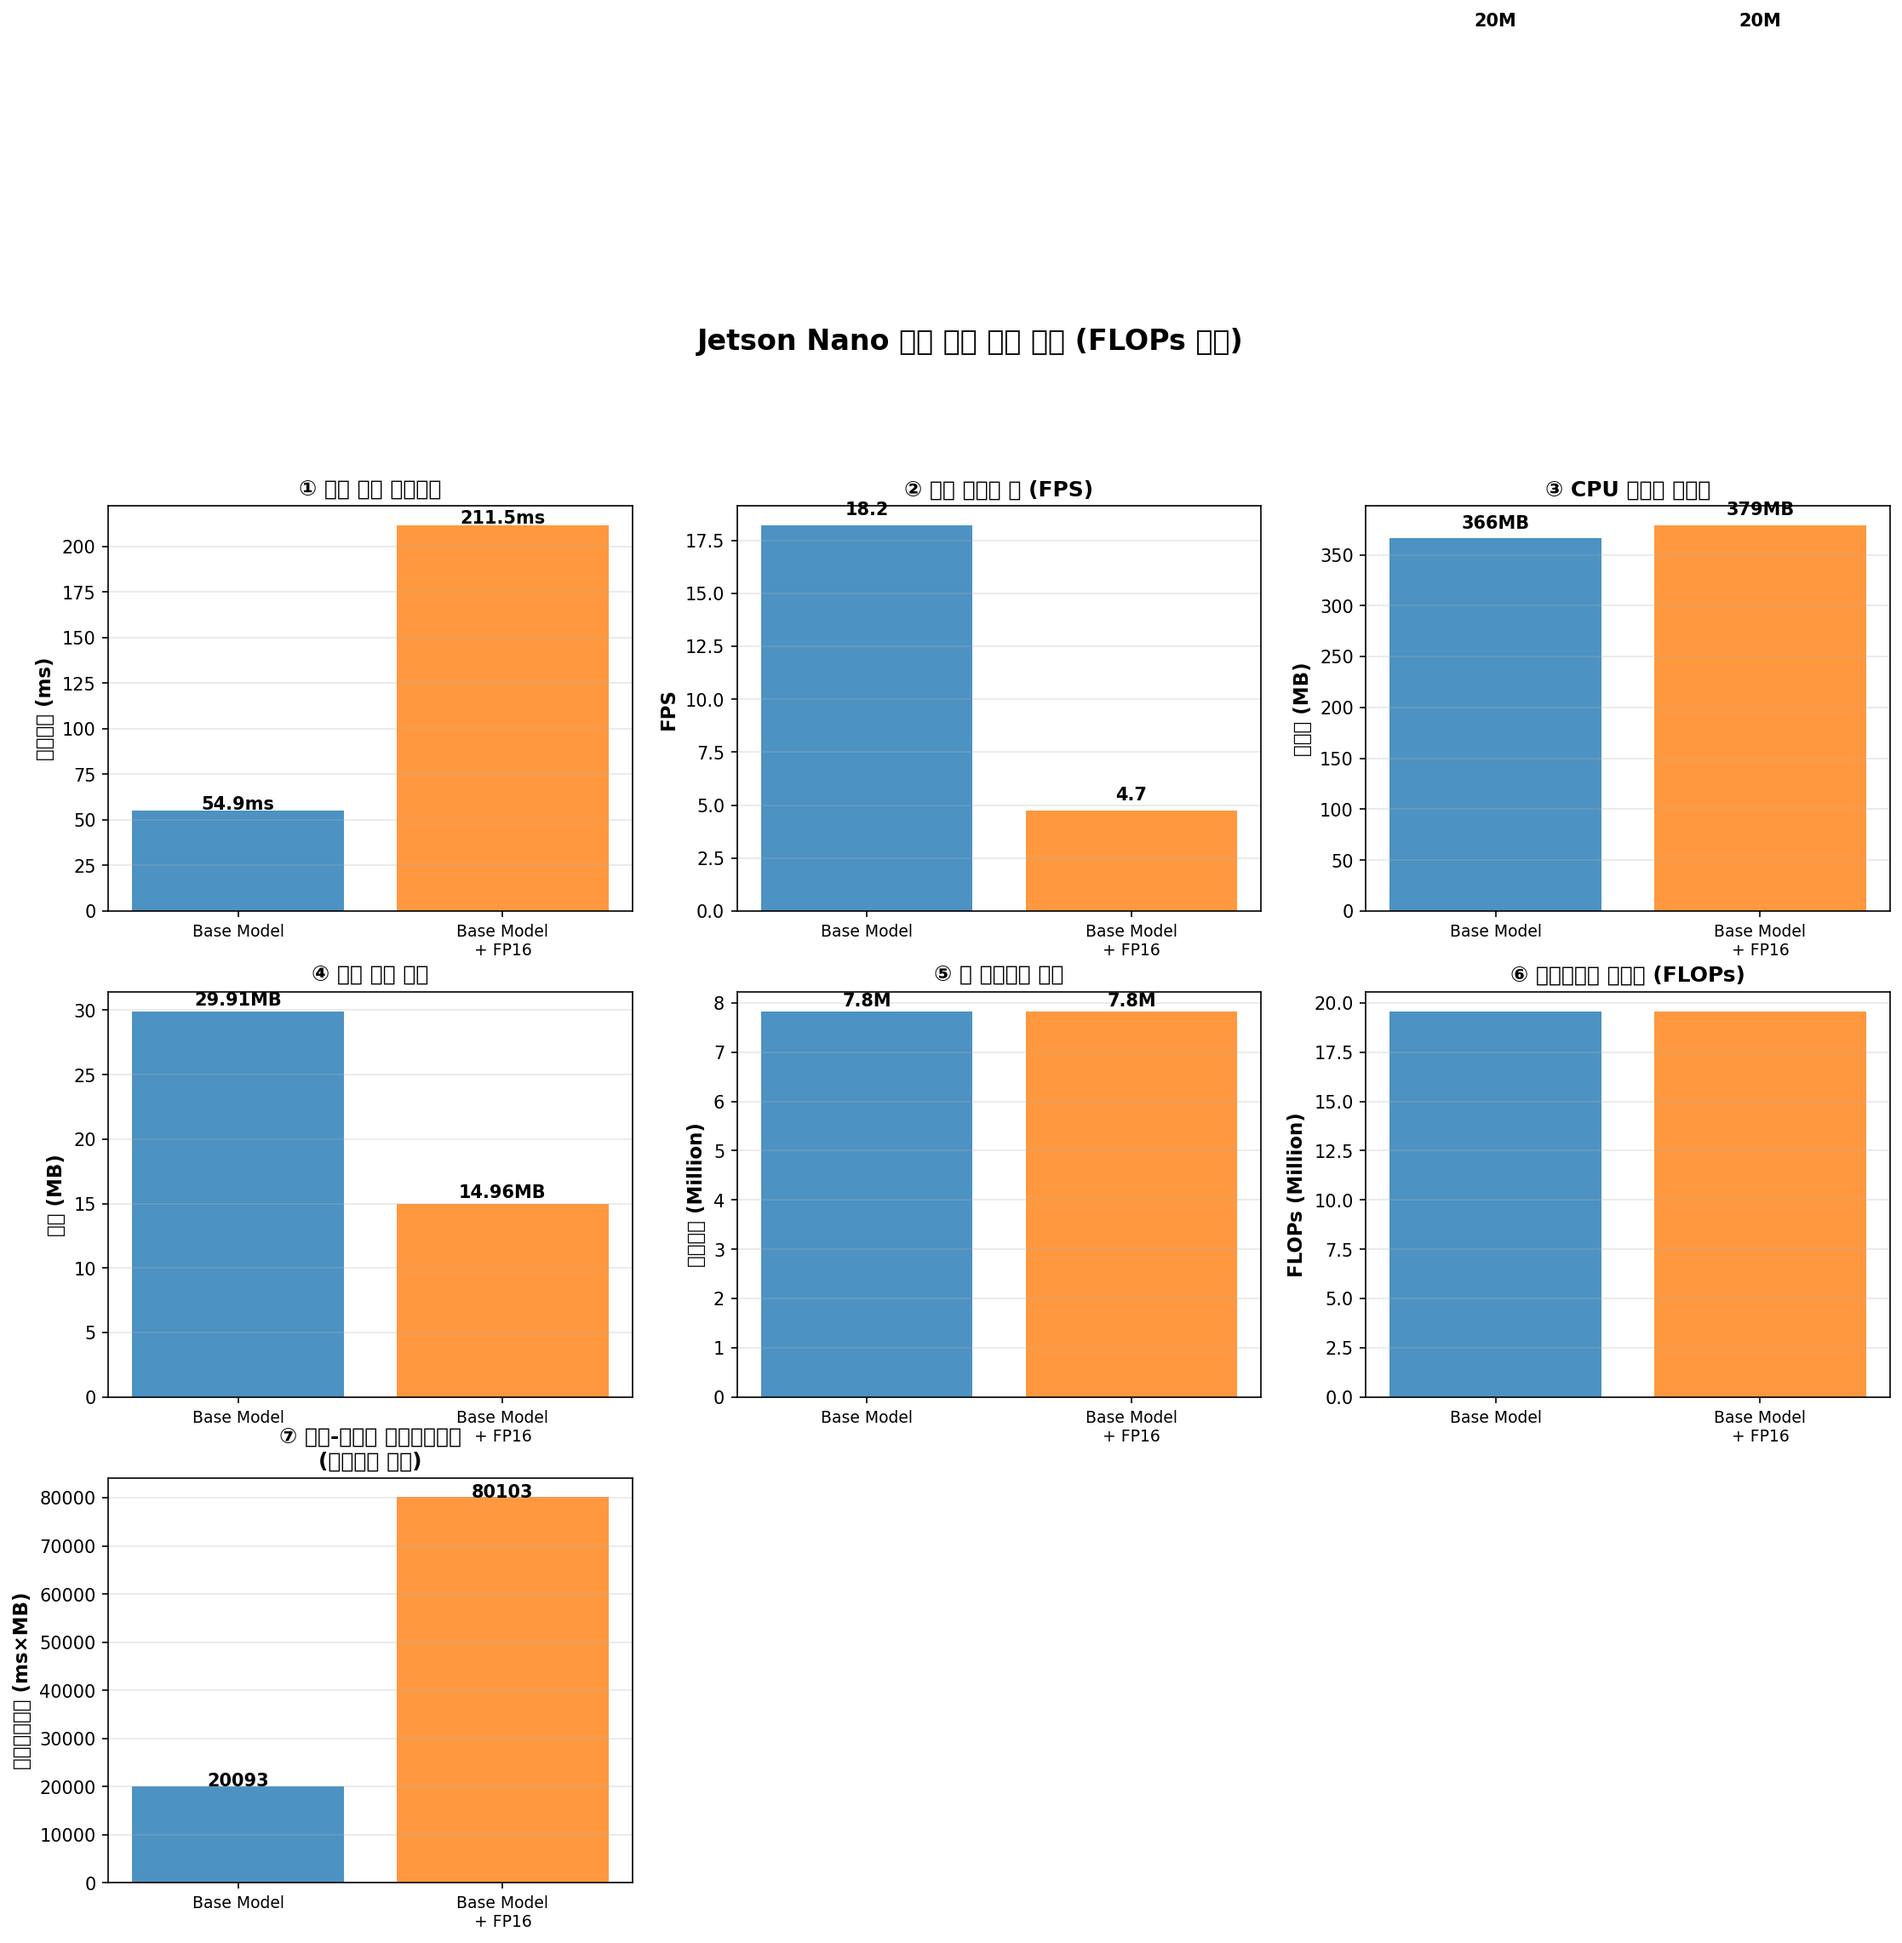
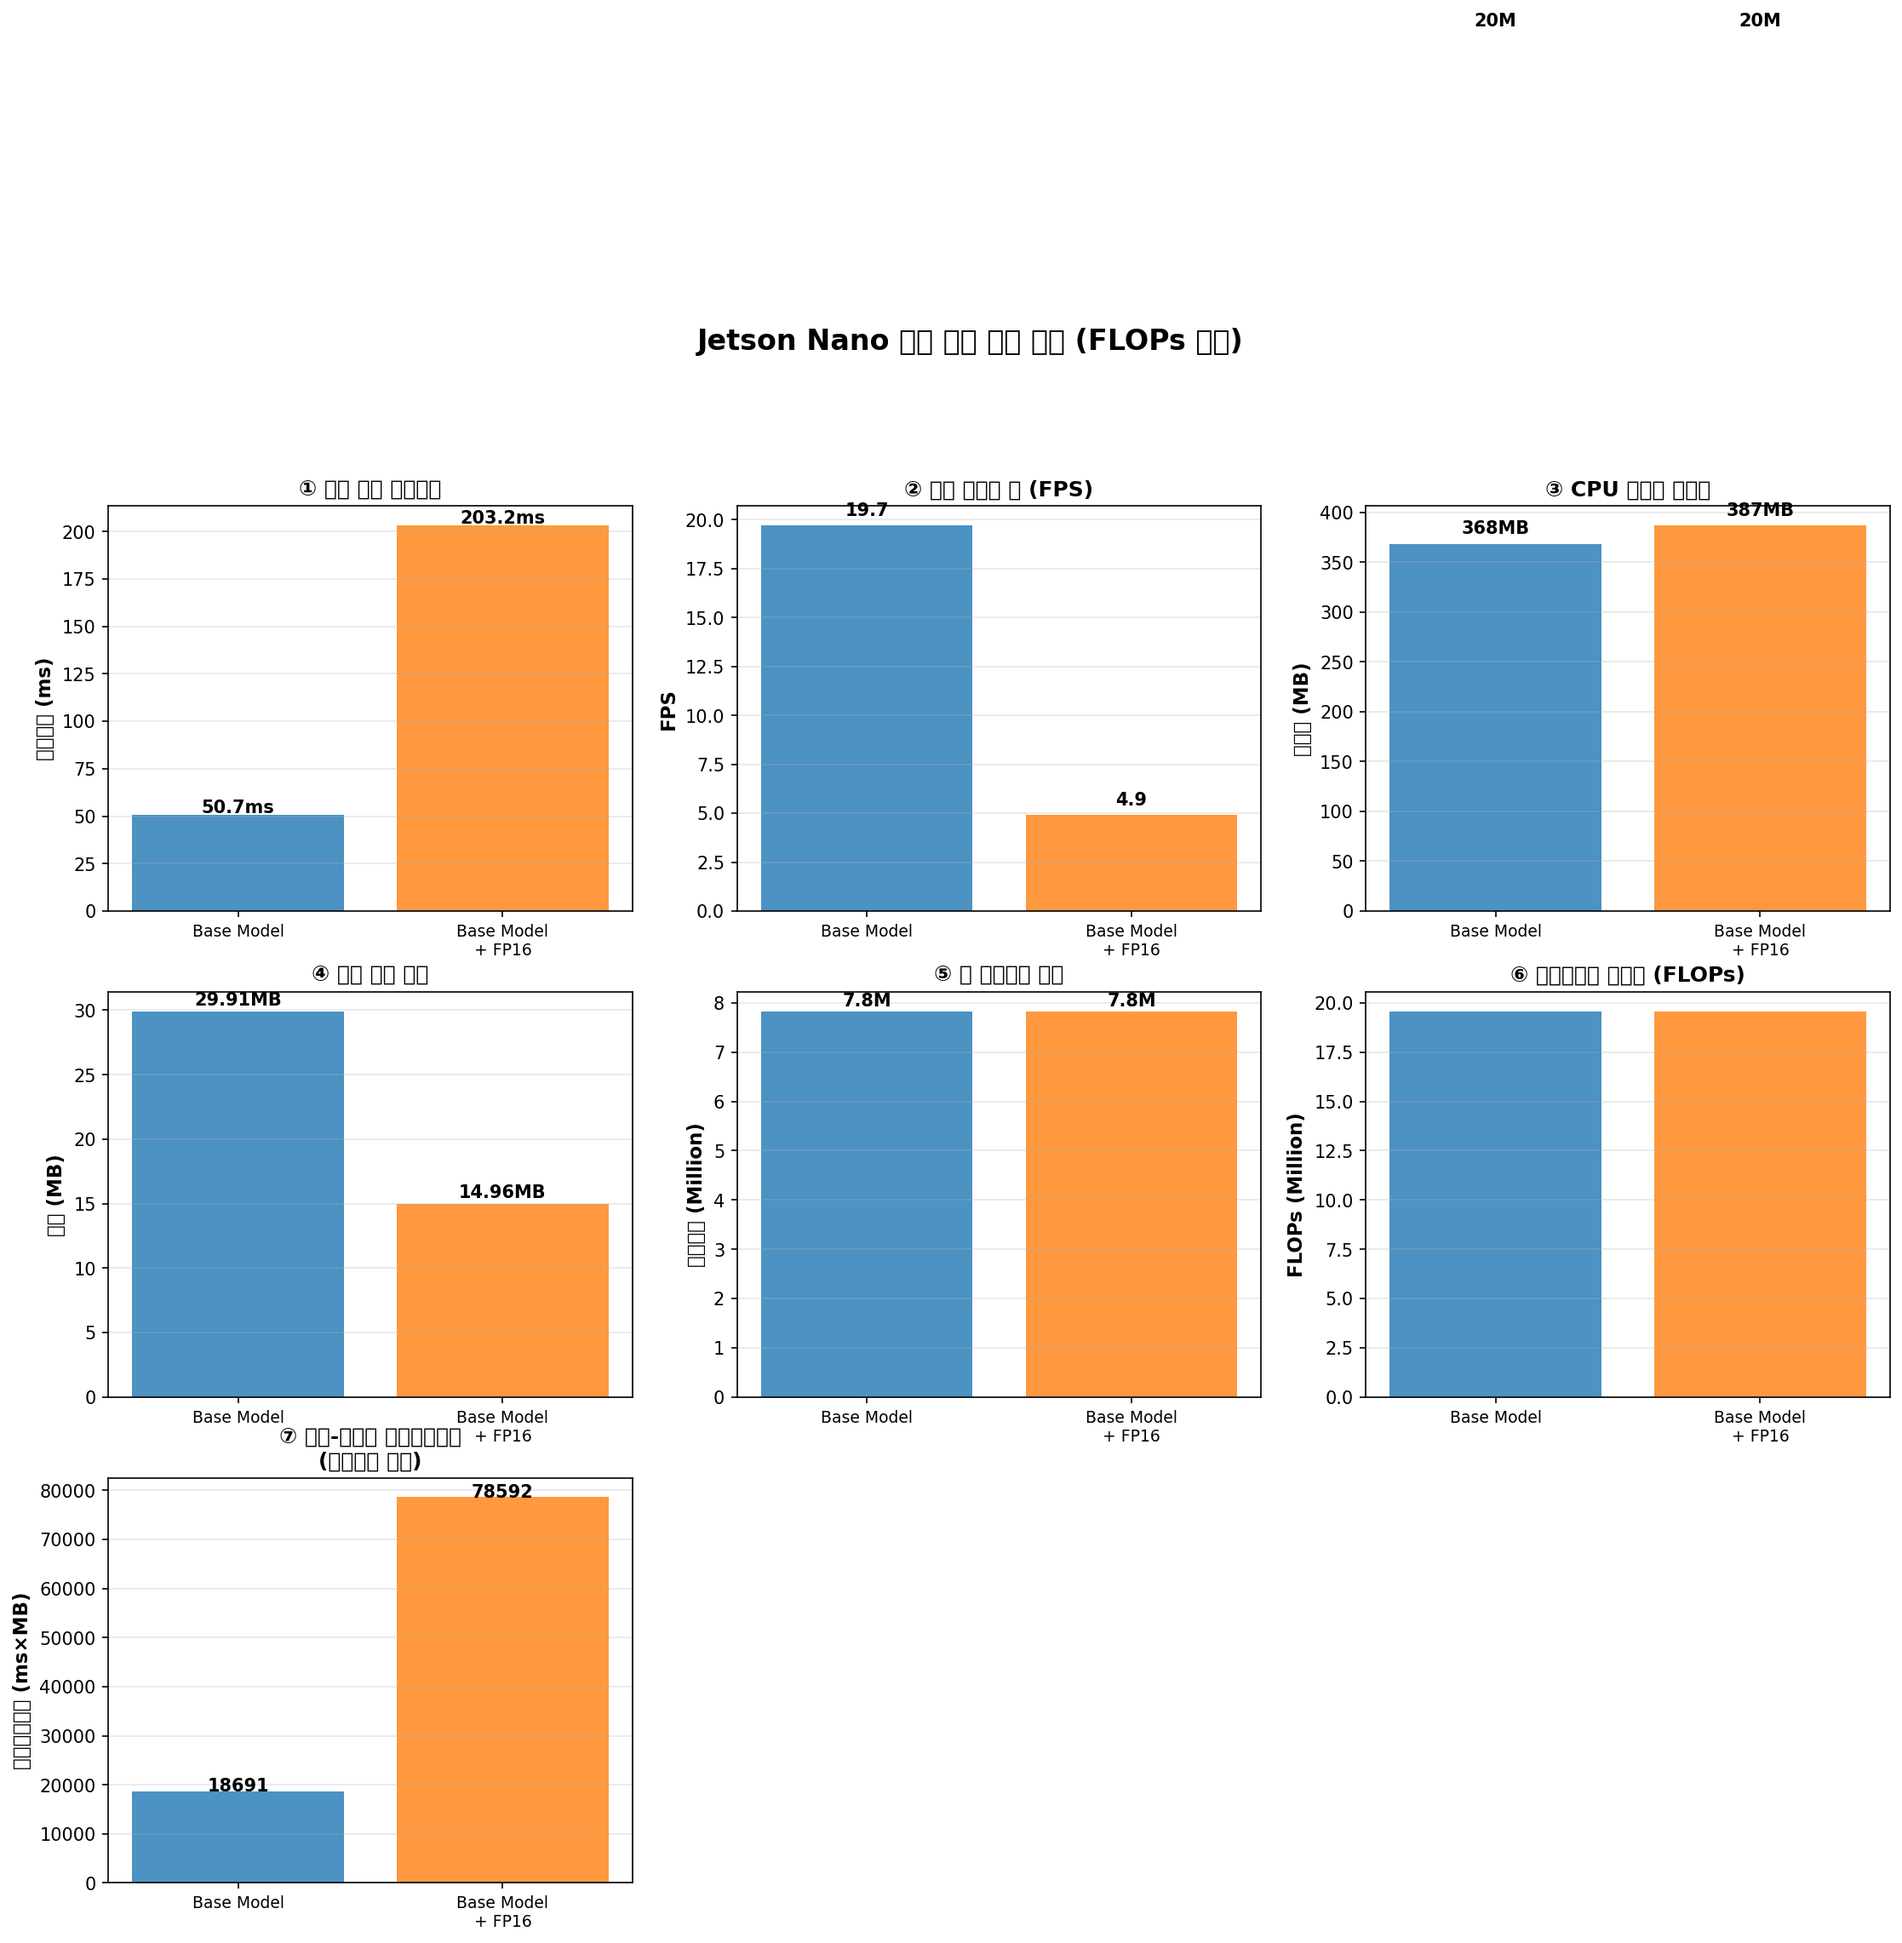
bugfix

diff --git a/scripts/benchmark_comparison.py b/scripts/benchmark_comparison.py
@@ -14,9 +14,28 @@ import time
 import torch
 import numpy as np
 import matplotlib.pyplot as plt
+import matplotlib
 import psutil
 import sys
 from pathlib import Path
+
+# ★ 한글 폰트 설정
+matplotlib.rcParams['font.family'] = 'DejaVu Sans'
+matplotlib.rcParams['axes.unicode_minus'] = False
+try:
+    # Jetson Nano에서 한글 지원
+    import matplotlib.font_manager as fm
+    font_paths = [
+        '/usr/share/fonts/truetype/noto/NotoSansCJK-Regular.ttc',
+        '/usr/share/fonts/opentype/noto/NotoSansCJK-Regular.otf',
+    ]
+    for font_path in font_paths:
+        if os.path.exists(font_path):
+            fm.fontManager.addfont(font_path)
+            matplotlib.rcParams['font.family'] = 'Noto Sans CJK JP'
+            break
+except:
+    pass
 
 # 프로젝트 모듈
 from src.utils.memory_safe_import import load_model_class
@@ -182,24 +201,34 @@ def calculate_flops(model):
         # thop 라이브러리로 정확한 FLOPs 계산 시도
         if THOP_AVAILABLE:
             try:
-                dummy_input = torch.randn(1, 3, 224, 224).to(device)
-                if hasattr(model, 'float'):
-                    model_float = model.float()
-                    dummy_input_float = dummy_input.float()
-                    from thop import profile
-                    flops, params = profile(model_float, inputs=(dummy_input_float,), verbose=False)
-                else:
-                    from thop import profile
-                    flops, params = profile(model, inputs=(dummy_input,), verbose=False)
+                from thop import profile
                 
-                return float(flops / 1e6)  # Millions
+                # ★ 인코더만 프로파일링 (forward()에 captions 필요 없음)
+                if hasattr(model, 'encoder'):
+                    dummy_input = torch.randn(1, 3, 224, 224).to(device)
+                    if model.encoder.weight.dtype == torch.float16:
+                        dummy_input = dummy_input.half()
+                    
+                    flops, _ = profile(
+                        model.encoder,
+                        inputs=(dummy_input,),
+                        verbose=False
+                    )
+                    
+                    # 디코더 FLOPs 추정 (인코더 FLOPs의 약 50%)
+                    decoder_flops_estimate = flops * 0.5
+                    total_flops = flops + decoder_flops_estimate
+                    
+                    return float(total_flops / 1e6)  # Millions
             except Exception as e:
-                print("⚠  thop 계산 실패: {}".format(e))
+                print("⚠  thop 계산 실패: {}. 파라미터 기반 추정 사용".format(e))
     except:
         pass
     
     # 폴백: 파라미터 개수 기반 추정
-    # 일반적으로 FLOPs ≈ 2 × Parameters (순전파)
+    # 인코더(MobileNetV3): 약 2M params → 약 500M FLOPs
+    # 디코더(GRU+Attention): 약 0.5M params → 약 200M FLOPs
+    # 총: 약 2.5×params
     param_count = sum(p.numel() for p in model.parameters())
     estimated_flops = param_count * 2.5 / 1e6  # Millions
     
@@ -406,17 +435,17 @@ def plot_comparison(results):
     param_counts = [results[m]['total_params'] / 1e6 for m in model_names]  # Million
     flops_values = [results[m]['flops_millions'] for m in model_names]  # ★ FLOPs 추가
     
-    # 그래프 생성 (3x3으로 변경하여 7개 그래프 표시)
-    fig, axes = plt.subplots(3, 3, figsize=(18, 14))
-    fig.suptitle('Jetson Nano 모델 성능 비교 분석 (FLOPs 포함)', fontsize=16, fontweight='bold')
+    # 그래프 생성 (3x3으로 변경하여 6개 그래프 표시)
+    fig, axes = plt.subplots(2, 3, figsize=(16, 10))
+    fig.suptitle('Jetson Nano Model Performance Comparison', fontsize=16, fontweight='bold')
     
     # 색상 설정
     colors = ['#1f77b4', '#ff7f0e', '#2ca02c', '#d62728', '#9467bd']
     
     # 1. 추론 지연시간
     axes[0, 0].bar(range(len(model_names)), latencies, color=colors, alpha=0.8)
-    axes[0, 0].set_ylabel('지연시간 (ms)', fontsize=11, fontweight='bold')
-    axes[0, 0].set_title('① 평균 추론 지연시간', fontsize=12, fontweight='bold')
+    axes[0, 0].set_ylabel('Latency (ms)', fontsize=11, fontweight='bold')
+    axes[0, 0].set_title('1. Inference Latency', fontsize=12, fontweight='bold')
     axes[0, 0].set_xticks(range(len(model_names)))
     axes[0, 0].set_xticklabels([m.replace(' + ', '\n+ ') for m in model_names], fontsize=9)
     axes[0, 0].grid(axis='y', alpha=0.3)
@@ -426,7 +455,7 @@ def plot_comparison(results):
     # 2. FPS (처리량)
     axes[0, 1].bar(range(len(model_names)), fps_values, color=colors, alpha=0.8)
     axes[0, 1].set_ylabel('FPS', fontsize=11, fontweight='bold')
-    axes[0, 1].set_title('② 초당 프레임 수 (FPS)', fontsize=12, fontweight='bold')
+    axes[0, 1].set_title('2. Frames Per Second', fontsize=12, fontweight='bold')
     axes[0, 1].set_xticks(range(len(model_names)))
     axes[0, 1].set_xticklabels([m.replace(' + ', '\n+ ') for m in model_names], fontsize=9)
     axes[0, 1].grid(axis='y', alpha=0.3)
@@ -435,18 +464,19 @@ def plot_comparison(results):
     
     # 3. CPU 메모리 사용량
     axes[0, 2].bar(range(len(model_names)), memory_usage, color=colors, alpha=0.8)
-    axes[0, 2].set_ylabel('메모리 (MB)', fontsize=11, fontweight='bold')
-    axes[0, 2].set_title('③ CPU 메모리 사용량', fontsize=12, fontweight='bold')
+    axes[0, 2].set_ylabel('Memory (MB)', fontsize=11, fontweight='bold')
+    axes[0, 2].set_title('3. CPU Memory Usage', fontsize=12, fontweight='bold')
     axes[0, 2].set_xticks(range(len(model_names)))
     axes[0, 2].set_xticklabels([m.replace(' + ', '\n+ ') for m in model_names], fontsize=9)
     axes[0, 2].grid(axis='y', alpha=0.3)
     for i, v in enumerate(memory_usage):
         axes[0, 2].text(i, v + 10, '{:.0f}MB'.format(v), ha='center', fontsize=10, fontweight='bold')
+        axes[0, 2].text(i, v + 10, '{:.0f}MB'.format(v), ha='center', fontsize=10, fontweight='bold')
     
     # 4. 모델 크기
     axes[1, 0].bar(range(len(model_names)), model_sizes, color=colors, alpha=0.8)
-    axes[1, 0].set_ylabel('크기 (MB)', fontsize=11, fontweight='bold')
-    axes[1, 0].set_title('④ 모델 파일 크기', fontsize=12, fontweight='bold')
+    axes[1, 0].set_ylabel('Size (MB)', fontsize=11, fontweight='bold')
+    axes[1, 0].set_title('4. Model File Size', fontsize=12, fontweight='bold')
     axes[1, 0].set_xticks(range(len(model_names)))
     axes[1, 0].set_xticklabels([m.replace(' + ', '\n+ ') for m in model_names], fontsize=9)
     axes[1, 0].grid(axis='y', alpha=0.3)
@@ -455,38 +485,23 @@ def plot_comparison(results):
     
     # 5. 파라미터 개수
     axes[1, 1].bar(range(len(model_names)), param_counts, color=colors, alpha=0.8)
-    axes[1, 1].set_ylabel('파라미터 (Million)', fontsize=11, fontweight='bold')
-    axes[1, 1].set_title('⑤ 총 파라미터 개수', fontsize=12, fontweight='bold')
+    axes[1, 1].set_ylabel('Parameters (M)', fontsize=11, fontweight='bold')
+    axes[1, 1].set_title('5. Total Parameters', fontsize=12, fontweight='bold')
     axes[1, 1].set_xticks(range(len(model_names)))
     axes[1, 1].set_xticklabels([m.replace(' + ', '\n+ ') for m in model_names], fontsize=9)
     axes[1, 1].grid(axis='y', alpha=0.3)
     for i, v in enumerate(param_counts):
         axes[1, 1].text(i, v + 0.1, '{:.1f}M'.format(v), ha='center', fontsize=10, fontweight='bold')
     
-    # ★ 6. FLOPs (새로 추가)
+    # 6. FLOPs
     axes[1, 2].bar(range(len(model_names)), flops_values, color=colors, alpha=0.8)
     axes[1, 2].set_ylabel('FLOPs (Million)', fontsize=11, fontweight='bold')
-    axes[1, 2].set_title('⑥ 부동소수점 연산수 (FLOPs)', fontsize=12, fontweight='bold')
+    axes[1, 2].set_title('6. Floating Point Operations', fontsize=12, fontweight='bold')
     axes[1, 2].set_xticks(range(len(model_names)))
     axes[1, 2].set_xticklabels([m.replace(' + ', '\n+ ') for m in model_names], fontsize=9)
     axes[1, 2].grid(axis='y', alpha=0.3)
     for i, v in enumerate(flops_values):
         axes[1, 2].text(i, v + 50, '{:.0f}M'.format(v), ha='center', fontsize=10, fontweight='bold')
-    
-    # 7. 성능-메모리 트레이드오프 (Latency × Memory)
-    tradeoff = [lat * mem for lat, mem in zip(latencies, memory_usage)]
-    axes[2, 0].bar(range(len(model_names)), tradeoff, color=colors, alpha=0.8)
-    axes[2, 0].set_ylabel('트레이드오프 (ms×MB)', fontsize=11, fontweight='bold')
-    axes[2, 0].set_title('⑦ 성능-메모리 트레이드오프\n(낮을수록 우수)', fontsize=12, fontweight='bold')
-    axes[2, 0].set_xticks(range(len(model_names)))
-    axes[2, 0].set_xticklabels([m.replace(' + ', '\n+ ') for m in model_names], fontsize=9)
-    axes[2, 0].grid(axis='y', alpha=0.3)
-    for i, v in enumerate(tradeoff):
-        axes[2, 0].text(i, v + 10, '{:.0f}'.format(v), ha='center', fontsize=10, fontweight='bold')
-    
-    # 나머지 빈 서브플롯 숨기기
-    axes[2, 1].axis('off')
-    axes[2, 2].axis('off')
     
     plt.tight_layout(rect=[0, 0.03, 1, 0.95])
     
@@ -545,7 +560,7 @@ def plot_comparison_table(results):
         for j in range(len(table_data[0]) + 1):
             table[(i + 1, j)].set_facecolor(colors[i % len(colors)])
     
-    plt.title('Jetson Nano 모델 성능 비교 상세표', fontsize=14, fontweight='bold', pad=20)
+    plt.title('Jetson Nano Model Performance Details', fontsize=14, fontweight='bold', pad=20)
     plt.savefig('benchmark_comparison_table.png', dpi=150, bbox_inches='tight')
     print("✅ 상세표 저장: benchmark_comparison_table.png")
 
